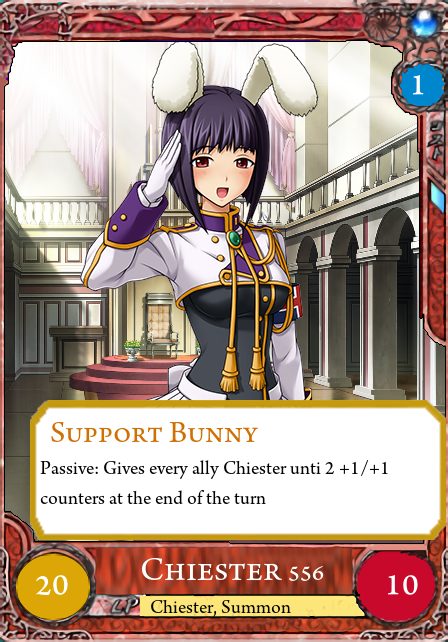
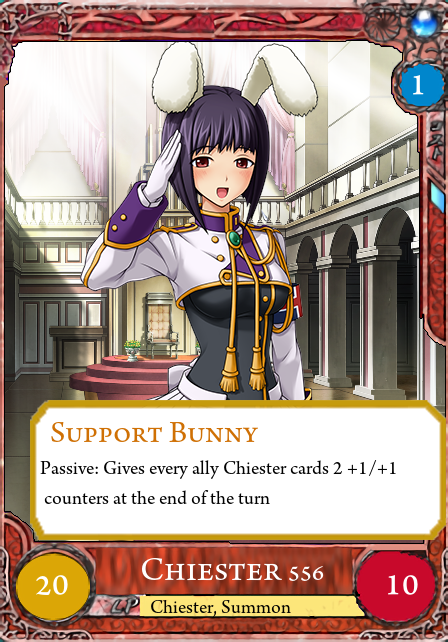
Eva effects

Changed region(s): [[0.0938, 0.7477, 0.5938, 0.81], [0.6562, 0.7165, 0.875, 0.7477]]

diff --git a/Assets/Scripts/CardEffects.cs b/Assets/Scripts/CardEffects.cs
@@ -408,9 +408,15 @@ public class CardEffects
         return field;
     }
 
-    internal static bool Chiester00Effect(Card arg)
+    internal static bool Chiester00Effect(Card c)
     {
-        throw new NotImplementedException();
+        List<CardObject> chiesters = Game.INSTANCE.FindCardsInGameByTag(Deck.TagType.Chiester, c.GetUsedByPlayer());
+        if (chiesters.Count == 0)
+        {
+            return false;
+        }
+        Game.INSTANCE.DamageAllEnemyCards(5 * chiesters.Count, c.GetUsedByPlayer());
+        return true;
     }
 
     internal static bool JessicaEffect(Card c)
@@ -426,19 +432,30 @@ public class CardEffects
         return true;
     }
 
-    internal static bool Chiester45Effect(Card arg)
+    internal static bool Chiester45Effect(Card c)
     {
-        throw new NotImplementedException();
+        Game.INSTANCE.DamageAllEnemyCards(2, c.GetUsedByPlayer(), row:"front");
+        return true;
     }
 
-    internal static bool Chiester556Effect(Card arg)
+    internal static bool Chiester556Effect(Card c)
     {
-        throw new NotImplementedException();
+        GameObject field = GetPlayerField(c);
+        foreach (CardObject co in Game.INSTANCE.CardObjectsInGame)
+        {
+            if (co.GameObject.transform.parent.parent.name == field.name)
+            {
+                Game.INSTANCE.AddCounterEffect(co, 2);
+            }
+        }
+        return true;
+        
     }
 
-    internal static bool Chiester410Effect(Card arg)
+    internal static bool Chiester410Effect(Card c)
     {
-        throw new NotImplementedException();
+        Game.INSTANCE.DamageAllEnemyCards(2, c.GetUsedByPlayer(), row: "back");
+        return true;
     }
 
     internal static bool KraussEffect(Card arg)
@@ -554,9 +571,9 @@ public class CardEffects
         CardObject effectUser = c.GetTargetCardObject();
         if (tags.Contains(TagType.Witch) && effectUser.GameObject.transform.parent.parent.name == "PlayerField")
         {
-            return false;
+            return true;
         }
-        return true;
+        return false;
     }
 
     internal static bool SakutarouEffect(Card c)
@@ -676,8 +693,14 @@ public class CardEffects
         throw new NotImplementedException();
     }
 
-    internal static bool EvaBeatriceEffect(Card arg)
+    internal static bool EvaBeatriceEffect(Card c)
     {
-        throw new NotImplementedException();
+        CardObject cardMoving = c.GetTargetCardObject();
+        GameObject field = GetPlayerField(c);
+        if (cardMoving.card.Cost == 1 && cardMoving.GameObject.transform.parent.parent.name != field.name)
+        {
+            return false;
+        }
+        return true;
     }
 }

diff --git a/Assets/Scripts/Deck.cs b/Assets/Scripts/Deck.cs
@@ -386,7 +386,7 @@ public class Deck
     }
     public void Chiester556Card()
     {
-        Card Chiester556 = new Card(2, 20, 10, CardEffects.Chiester556Effect, "Chiester556", new List<TagType> { TagType.Chiester, TagType.Summon }, true, false, 1);
+        Card Chiester556 = new Card(1, 20, 10, CardEffects.Chiester556Effect, "Chiester556", new List<TagType> { TagType.Chiester, TagType.Summon }, true, false, 1);
         if (EffectListener.INSTANCE != null)
         {
             EffectListener.INSTANCE.TurnEndingList.Add(Chiester556);
@@ -408,7 +408,7 @@ public class Deck
 
     public void EvaBeatrice2Card()
     {
-        Card EvaBeatrice = new Card(2, 36, 10, CardEffects.EvaBeatriceEffect, "EvaBeatrice2", new List<TagType> { TagType.Witch }, false, false, 1);
+        Card EvaBeatrice = new Card(2, 36, 10, CardEffects.EvaBeatrice2Effect, "EvaBeatrice2", new List<TagType> { TagType.Witch }, false, false, 1);
         AddCardRegister(EvaBeatrice);
     }
 
@@ -581,7 +581,7 @@ public class Deck
 
     public void EVA()
     {
-        this.leaderCard = new Card(0, 100, 8, CardEffects.EvaBeatriceEffect, "EVA", new List<TagType> { TagType.Leader, TagType.Witch }, true, false, 1);
+        this.leaderCard = new Card(0, 80, 15, CardEffects.EvaBeatriceEffect, "EVA", new List<TagType> { TagType.Leader, TagType.Witch }, true, false, 1);
         AddCardRegister(this.leaderCard, true);
         if (EffectListener.INSTANCE != null)
         {
@@ -946,7 +946,7 @@ public class Deck
         new Card(3, 30, 15, CardEffects.Chiester00Effect, "Chiester00", new List<TagType> { TagType.Chiester, TagType.Summon }, false, false, 2),
         new Card(1, 8, 8, CardEffects.Chiester410Effect, "Chiester410", new List<TagType> { TagType.Chiester, TagType.Summon }, false, false, 1),
         new Card(1, 8, 8, CardEffects.Chiester45Effect, "Chiester45", new List<TagType> { TagType.Chiester, TagType.Summon }, false, false, 1),
-        new Card(2, 20, 10, CardEffects.Chiester556Effect, "Chiester556", new List<TagType> { TagType.Chiester, TagType.Summon }, true, false, 1),
+        new Card(1, 20, 10, CardEffects.Chiester556Effect, "Chiester556", new List<TagType> { TagType.Chiester, TagType.Summon }, true, false, 1),
         new Card(1, 12, 1, CardEffects.BattlerEffect, "Battler2", new List<TagType> {TagType.Human }, false, false, 1),
         new Card(3, 36, 10, CardEffects.BernkastelEffect, "Bernkastel", new List<TagType> { TagType.Witch }, false, false, 1),
         new Card(2, 36, 10, CardEffects.AngeBeatriceEffect, "AngeBeatrice", new List<TagType> { TagType.Witch }, false, false, 2),

diff --git a/Assets/Scripts/Game.cs b/Assets/Scripts/Game.cs
@@ -132,7 +132,7 @@ public class Game : MonoBehaviour
         ass.Play();
     }
 
-    internal void DamageAllEnemyCards(int damage, bool playerCard)
+    internal void DamageAllEnemyCards(int damage, bool playerCard, string row="")
     {
         List<CardObject> iteratable = new List<CardObject>(CardObjectsInGame);
         String fieldName;
@@ -146,11 +146,15 @@ public class Game : MonoBehaviour
         }
         foreach(CardObject co in iteratable)
         {
-            if(co.GameObject.transform.parent.parent.name == fieldName)
+            string rowCoord = co.GameObject.transform.parent.name.Substring(8, 1);
+            if (co.GameObject.transform.parent.parent.name == fieldName && (row=="" || 
+                (row=="front" && (rowCoord == "1" || rowCoord == "2")) ||
+                (row == "back" && (rowCoord == "0" || rowCoord == "3"))))
             {
                 DamageCard(co, damage);
             }
         }
+        UpdateAllStatBoxes();
     }
 
     public void DamageCard(CardObject co, int damage)

diff --git a/Assets/Scripts/EffectListener.cs b/Assets/Scripts/EffectListener.cs
@@ -19,6 +19,27 @@ public class EffectListener
         INSTANCE = this;
     }
 
+    public bool OnAllowMovement(CardObject cardMoving)
+    {
+        bool effectAllowed = true;
+        foreach (Card c in MovementStopperList)
+        {
+            List<CardObject> cos = Game.INSTANCE.FindCardObject(c.ImageName);
+            foreach (CardObject co in cos)
+            {
+                c.InitializeEffectParametrs();
+                c.SetTargetCardObject(cardMoving);
+                c.SetUsedByPlayer(co.GameObject.transform.parent.parent.name == Game.INSTANCE.PlayerField.name);
+                bool effectResult = c.Effect.Invoke(c);
+                if (!effectResult)
+                {
+                    return false;
+                }
+            }
+        }
+        return effectAllowed;
+    }
+
     public bool OnAllowUseEffect(CardObject cardUsingEffect)
     {
         bool effectAllowed = true;

diff --git a/Assets/Scripts/CardFunctions.cs b/Assets/Scripts/CardFunctions.cs
@@ -224,6 +224,11 @@ public class CardFunctions : MonoBehaviour, IPointerEnterHandler, IPointerExitHa
                                 Debug.Log("Already moved");
                                 return;
                             }
+                            if(!EffectListener.INSTANCE.OnAllowMovement(cardObject))
+                            {
+                                Debug.Log("Effect is stopping this card from moving");
+                                return;
+                            }
                             bool canMove = CanMoveToPosition(movingCard, eventData.pointerClick);
                             if (!canMove)
                             {
